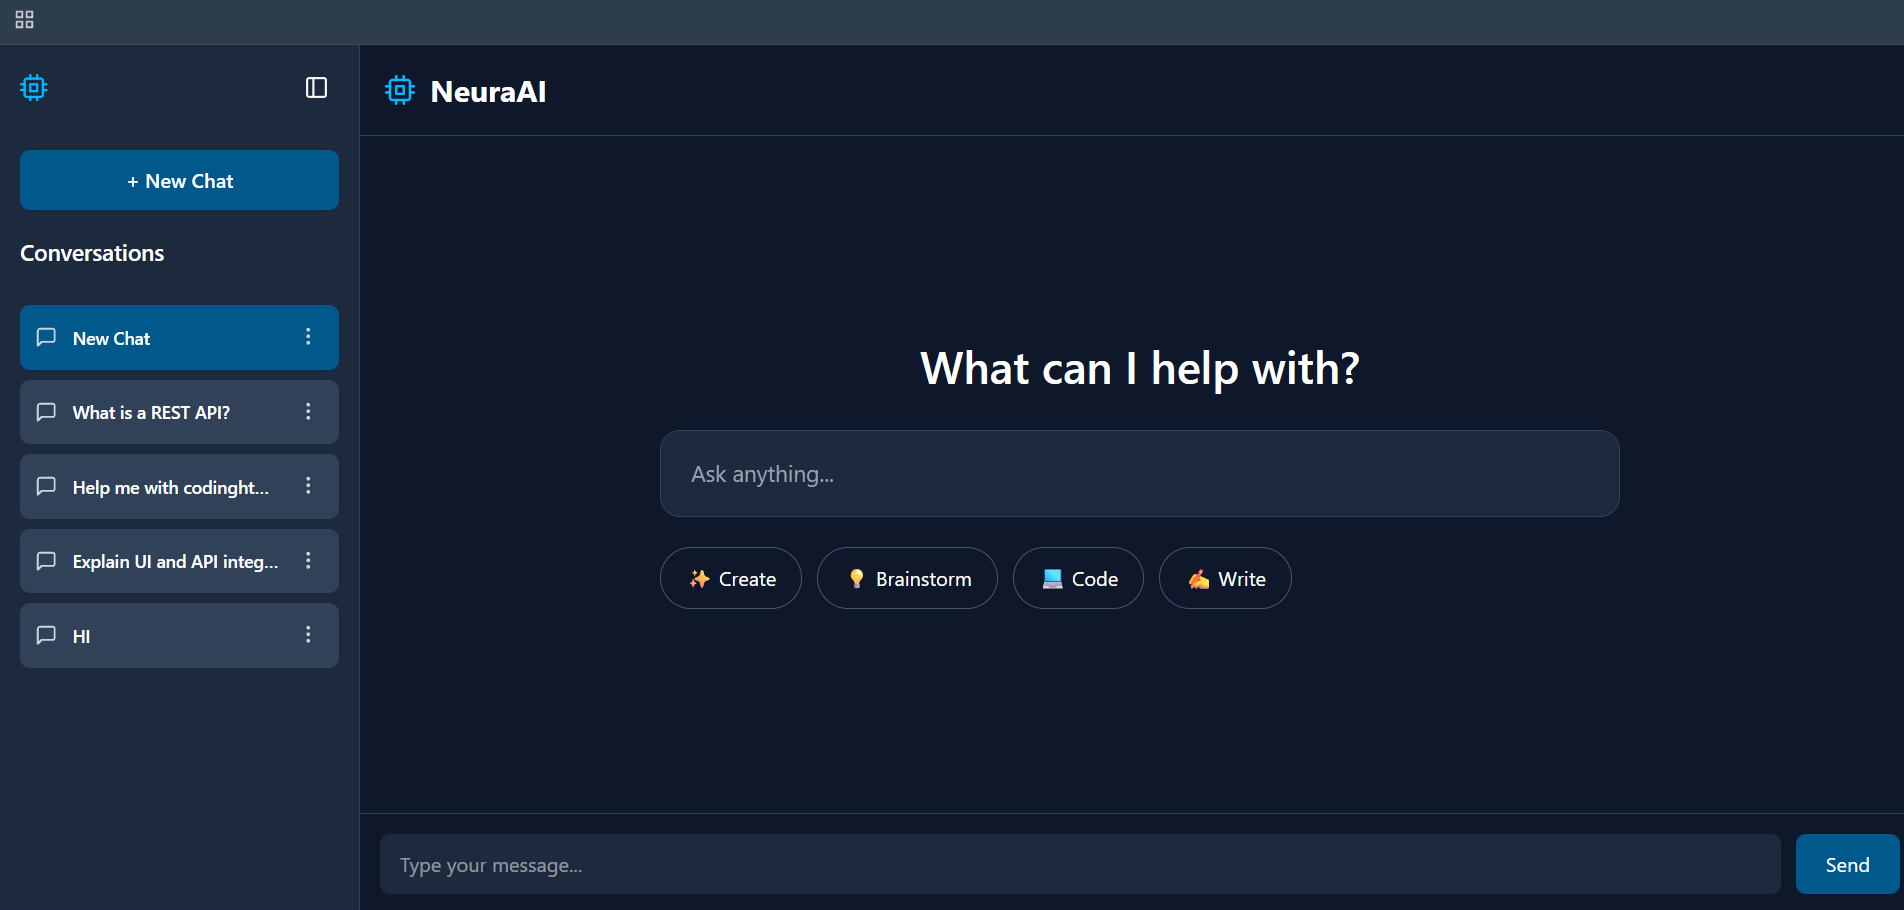
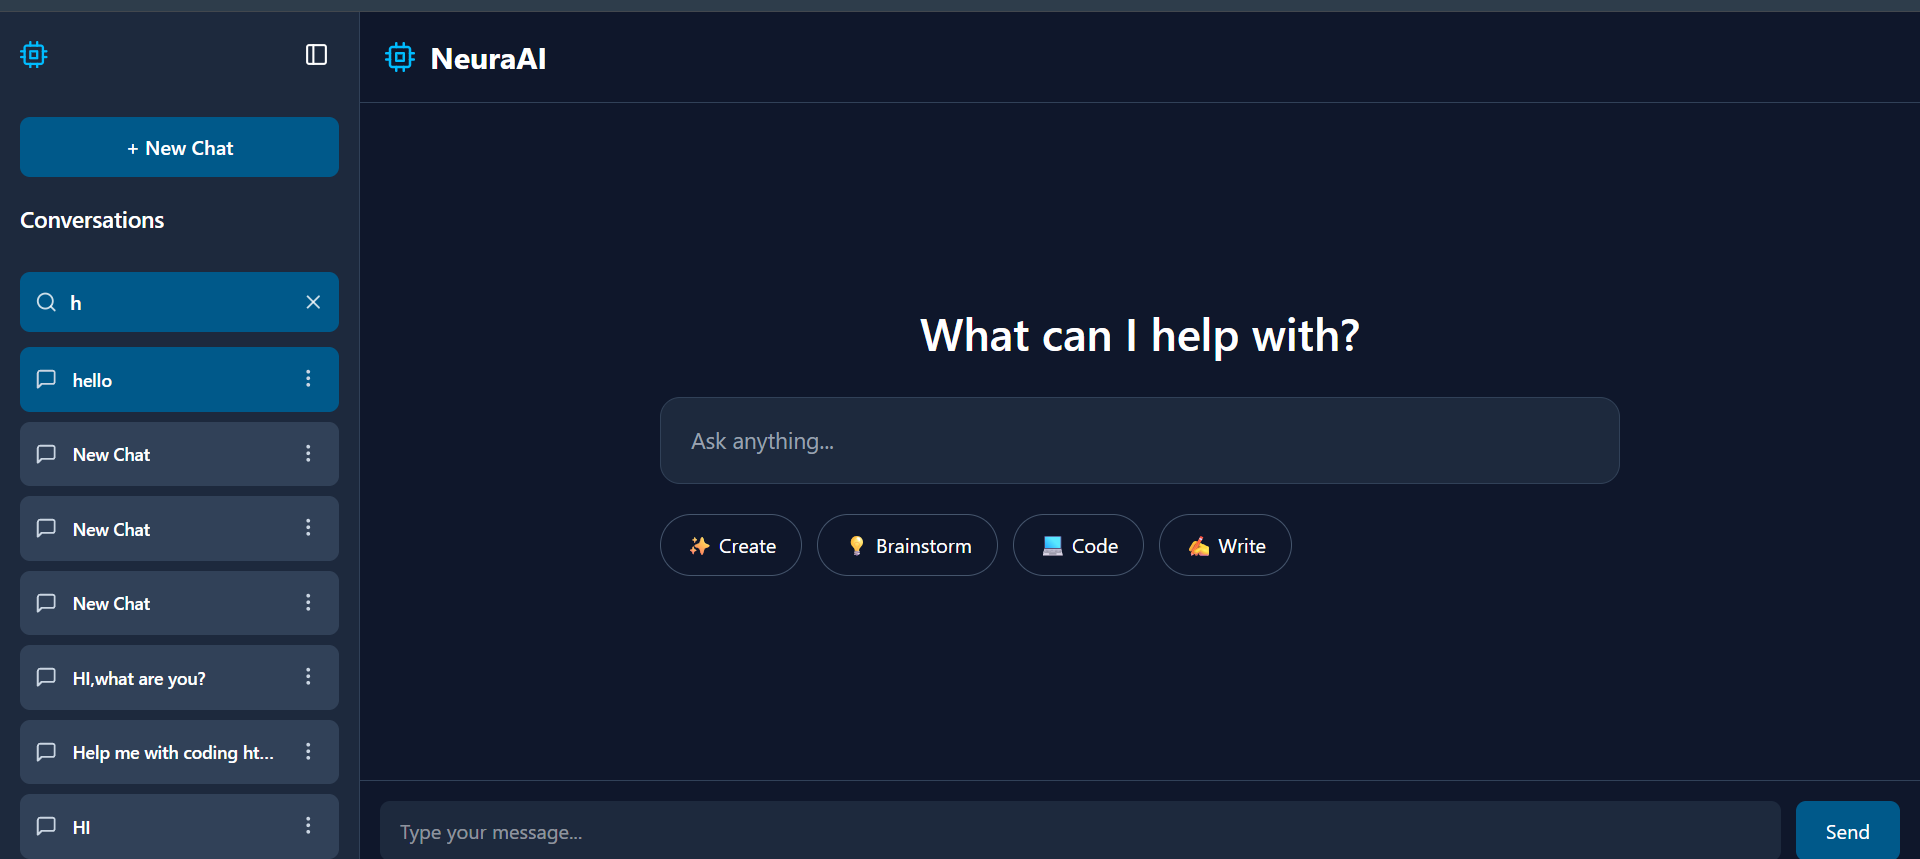
Add conversation search, inline rename, and update UI

diff --git a/frontend/src/App.jsx b/frontend/src/App.jsx
@@ -4,6 +4,15 @@ import { FiMessageSquare } from "react-icons/fi";
 import { FiMoreVertical } from "react-icons/fi";
 import api from "./services/api";
 import { FiCpu } from "react-icons/fi";
+import { FiSearch } from "react-icons/fi";
+import { FiX } from "react-icons/fi";
+import {
+  FiEdit2,
+  FiArchive,
+  FiTrash2,
+} from "react-icons/fi";
+import { BsPinAngle } from "react-icons/bs";
+
 
 function App() {
 
@@ -15,6 +24,9 @@ function App() {
   const messagesEndRef = useRef(null);
   const [sidebarOpen, setSidebarOpen] = useState(true);
   const [menuOpen, setMenuOpen] = useState(null);
+  const [searchQuery, setSearchQuery] = useState("");
+  const [editingChatId, setEditingChatId] = useState(null);
+  const [editingTitle, setEditingTitle] = useState("");
 
 
   useEffect(() => {
@@ -103,6 +115,32 @@ function App() {
   }
 
 
+  function renameChat(id, currentTitle) {
+  setEditingChatId(id);
+  setEditingTitle(currentTitle);
+}
+
+async function saveRename(id) {
+  const title = editingTitle.trim();
+
+  if (!title) {
+    setEditingChatId(null);
+    return;
+  }
+
+  try {
+    await api.put(`/conversations/${id}`, {
+      title,
+    });
+
+    await loadConversations();
+  } catch (error) {
+    console.error(error);
+  }
+
+  setEditingChatId(null);
+}
+
   async function sendMessage() {
 
   const text = message.trim();
@@ -166,6 +204,10 @@ function App() {
 
 }
 
+const filteredConversations = conversations.filter((conversation) =>
+  conversation.title.toLowerCase().includes(searchQuery.toLowerCase())
+);
+
   
 
 
@@ -227,9 +269,29 @@ function App() {
     No conversations yet.
   </p>
 )}
+<div className="relative mb-3">
+  <FiSearch className="absolute left-3 top-1/2 -translate-y-1/2 text-white/80 text-lg" />
+
+  <input
+    type="text"
+    placeholder="Search conversations..."
+    value={searchQuery}
+    onChange={(e) => setSearchQuery(e.target.value)}
+    className="bg-sky-800 hover:bg-sky-700 transition-colors duration-200 w-full rounded-lg py-3 pl-10 pr-10 font-semibold text-white placeholder-white/70 focus:outline-none"
+  />
+
+  {searchQuery && (
+    <button
+      onClick={() => setSearchQuery("")}
+      className="absolute right-3 top-1/2 -translate-y-1/2 text-white/80 hover:text-white"
+    >
+      <FiX size={18} />
+    </button>
+  )}
+</div>
 
           {
-            conversations.map(chat => (
+            filteredConversations.map(chat => (
 
               <div
   key={chat.id}
@@ -246,14 +308,35 @@ function App() {
 >
   <FiMessageSquare className="text-slate-300 text-lg" />
 
-  {sidebarOpen && (
+{sidebarOpen &&
+  (editingChatId === chat.id ? (
+    <input
+      autoFocus
+      value={editingTitle}
+      onChange={(e) => setEditingTitle(e.target.value)}
+      onBlur={() => saveRename(chat.id)}
+      onKeyDown={(e) => {
+        if (e.key === "Enter") {
+          saveRename(chat.id);
+        }
+
+        if (e.key === "Escape") {
+          setEditingChatId(null);
+        }
+      }}
+      className="ml-3 flex-1 bg-slate-600 rounded px-2 py-1 text-sm outline-none"
+    />
+  ) : (
     <span
-  className="ml-3 flex-1 truncate text-sm font-medium"
-  title={chat.title}
->
-  {chat.title}
-</span>
-  )}
+      className="ml-3 flex-1 truncate text-sm font-medium"
+      title={chat.title}
+    >
+      {chat.title}
+    </span>
+  ))
+}
+
+  
 </div>
 
 
@@ -272,34 +355,39 @@ function App() {
     {menuOpen === chat.id && (
       <div className="absolute right-0 top-8 w-48 bg-slate-800 border border-slate-700 rounded-xl shadow-2xl overflow-hidden z-50">
 
-        <button
+        
+
+<button
   onClick={() => {
+    renameChat(chat.id, chat.title);
     setMenuOpen(null);
-    // Rename logic later
   }}
   className="w-full px-4 py-3 text-left text-sm hover:bg-slate-700 transition"
 >
   ✏️ Rename
 </button>
 
-        <button
+        
+<button
   onClick={() => {
+    // Pin logic
     setMenuOpen(null);
-    // Pin logic later
   }}
-  className="w-full px-4 py-3 text-left text-sm hover:bg-slate-700 transition"
+  className="w-full px-4 py-3 text-left text-sm hover:bg-slate-700 transition flex items-center gap-2"
 >
-  📌 Pin
+  <BsPinAngle size={16} />
+  Pin
 </button>
 
-        <button
+<button
   onClick={() => {
+    // Archive logic
     setMenuOpen(null);
-    // Archive logic later
   }}
-  className="w-full px-4 py-3 text-left text-sm hover:bg-slate-700 transition"
+  className="w-full px-4 py-3 text-left text-sm hover:bg-slate-700 transition flex items-center gap-2"
 >
-  📦 Archive
+  <FiArchive size={16} />
+  Archive
 </button>
 
         <button

diff --git a/backend/routes/chat_routes.py b/backend/routes/chat_routes.py
@@ -51,7 +51,13 @@ def remove_conversation(conversation_id):
     })
 
 
+@chat_bp.route("/conversations/<int:id>", methods=["PUT"])
+def rename_conversation(id):
+    data = request.json
 
+    update_conversation_title(id, data["title"])
+
+    return jsonify({"message": "Conversation renamed successfully"})
 
 
 @chat_bp.route("/messages/<int:conversation_id>", methods=["GET"])

diff --git a/README.md b/README.md
@@ -298,3 +298,6 @@ B.Tech Computer Science Engineering (AIML)
 # License
 
 This project is developed for learning and demonstration purposes.
+
+
+